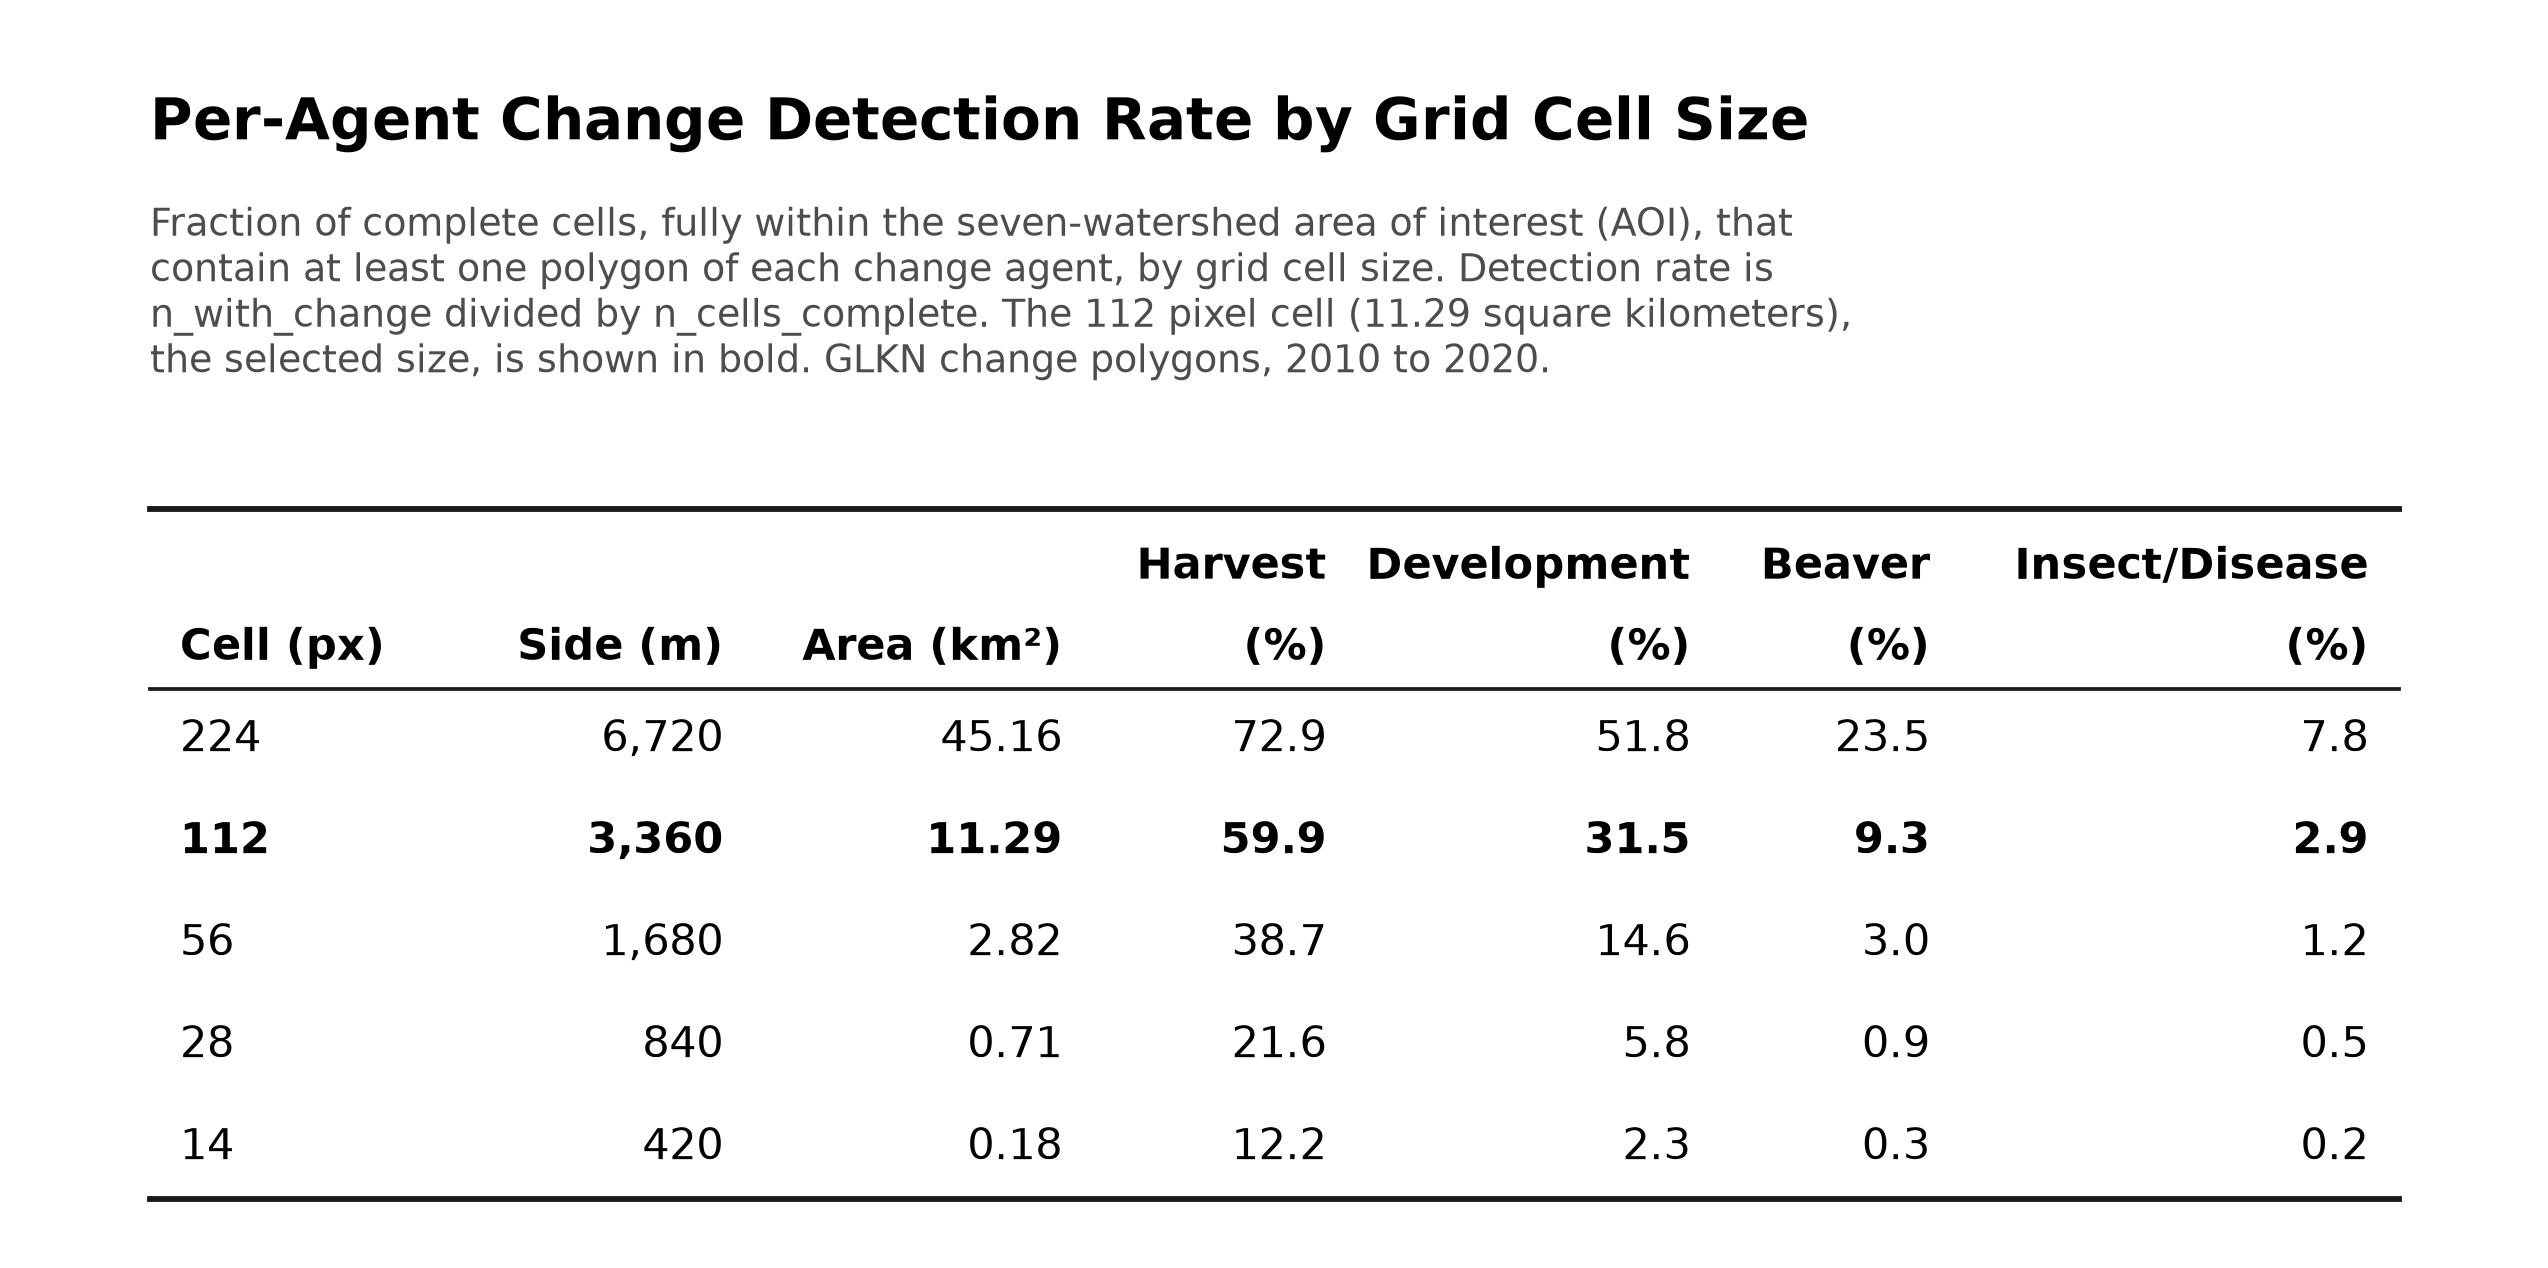
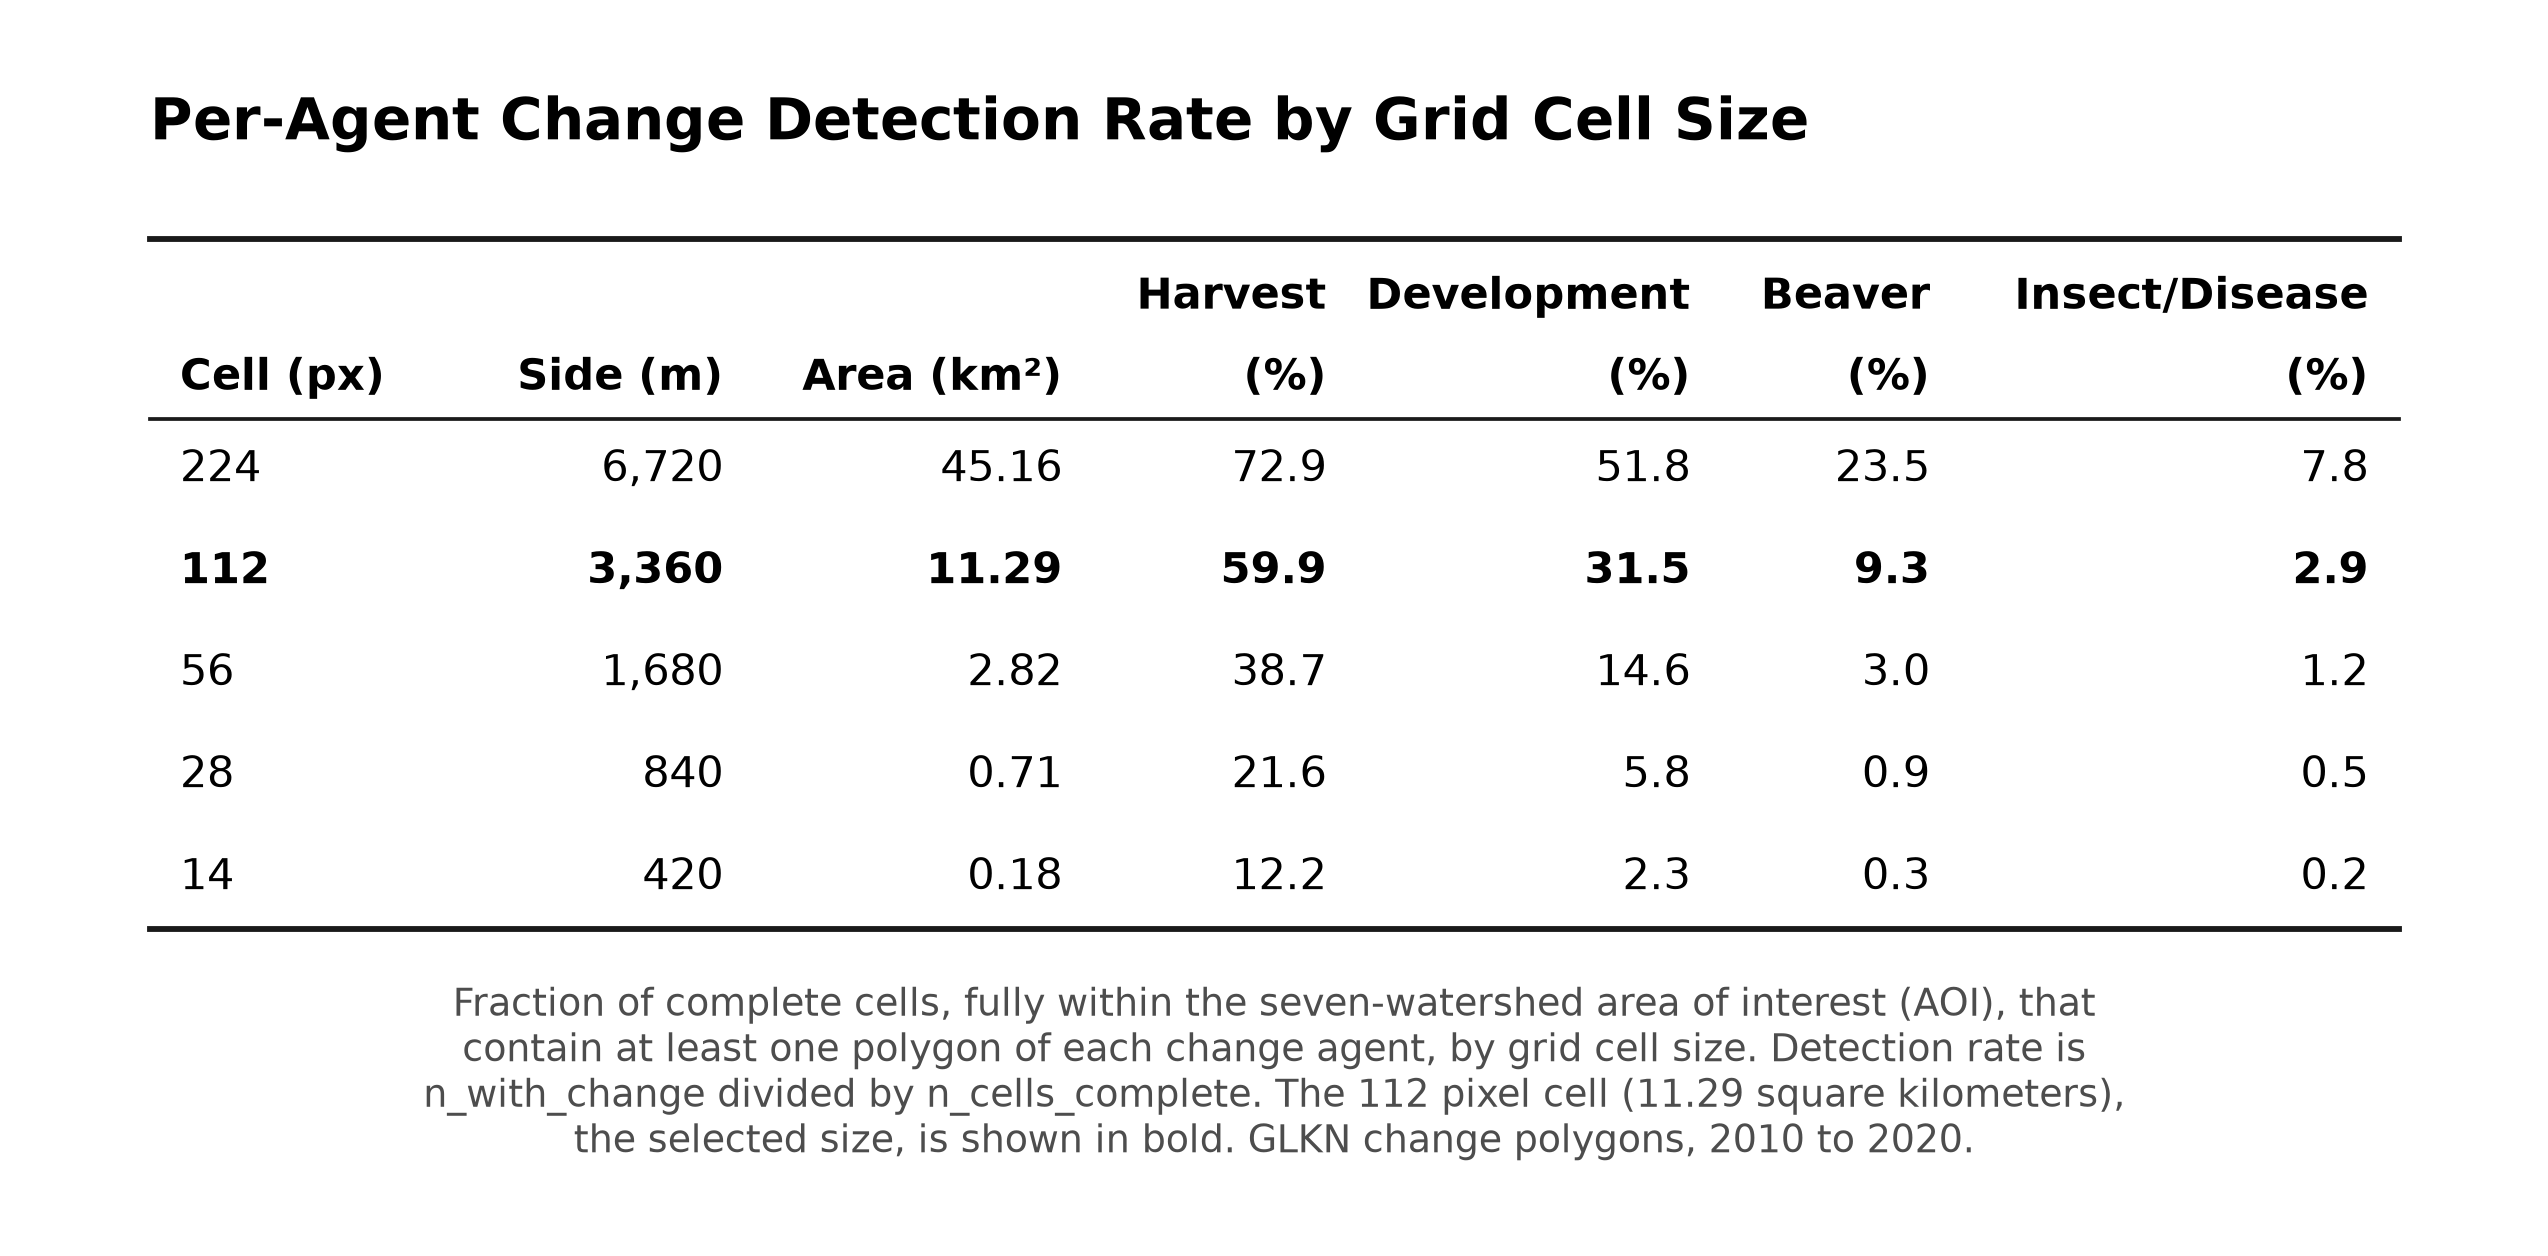
Chapter 3 detection-rate table: move the caption below the table
Render the descriptive paragraph for the detection-rate table below the table
instead of above it (as a centered caption), and make the below-table note style a
centered 9 pt gray caption (also tidies the polygon-size table's note).

diff --git a/scripts/build_chapter3_tables.py b/scripts/build_chapter3_tables.py
@@ -107,8 +107,9 @@ def render_png(path, title, subtitle, caption, headers, rows, aligns, bold_rows=
         y += row_in
     ax.plot([left, right], [y, y], color="0.1", lw=1.4)                # bottom rule
     if footnote:
-        y += 0.16
-        ax.text(left, y, "\n".join(textwrap.wrap(footnote, capw)), fontsize=8.5, va="top", color="0.35")
+        y += 0.18                                              # caption / note below the table, centered
+        ax.text((left + right) / 2, y, "\n".join(textwrap.wrap(footnote, capw)), fontsize=9,
+                va="top", ha="center", color="0.3")
 
     fig.savefig(path, dpi=300, bbox_inches="tight")
     plt.close(fig)
@@ -215,12 +216,12 @@ def main():
     bold_idx = [i for i, s in sizes.iterrows() if int(s.cell_side_px) == SEL_PX]
     a_aligns = ["l", "r", "r"] + ["r" for _ in present_agents]
     emit("chapter3_table_detection_rate_by_cell_size",
-         "Per-Agent Change Detection Rate by Grid Cell Size", None,
-         "Fraction of complete cells, fully within the seven-watershed area of interest (AOI), that "
-         "contain at least one polygon of each change agent, by grid cell size. Detection rate is "
-         "n_with_change divided by n_cells_complete. The 112 pixel cell (11.29 square kilometers), the "
-         "selected size, is shown in bold. GLKN change polygons, 2010 to 2020.",
-         a_headers, a_rows, a_aligns, pd.DataFrame(a_tidy), bold_rows=bold_idx)
+         "Per-Agent Change Detection Rate by Grid Cell Size", None, None,     # caption goes below the table
+         a_headers, a_rows, a_aligns, pd.DataFrame(a_tidy), bold_rows=bold_idx,
+         footnote="Fraction of complete cells, fully within the seven-watershed area of interest "
+         "(AOI), that contain at least one polygon of each change agent, by grid cell size. Detection "
+         "rate is n_with_change divided by n_cells_complete. The 112 pixel cell (11.29 square "
+         "kilometers), the selected size, is shown in bold. GLKN change polygons, 2010 to 2020.")
 
     # --- table B: absolute counts of complete cells with change, by cell size ---
     b_headers = ["Cell (px)", "Side (m)", "Area (km²)", "Complete\ncells"] + [DISPLAY[a] for a in present_agents]
